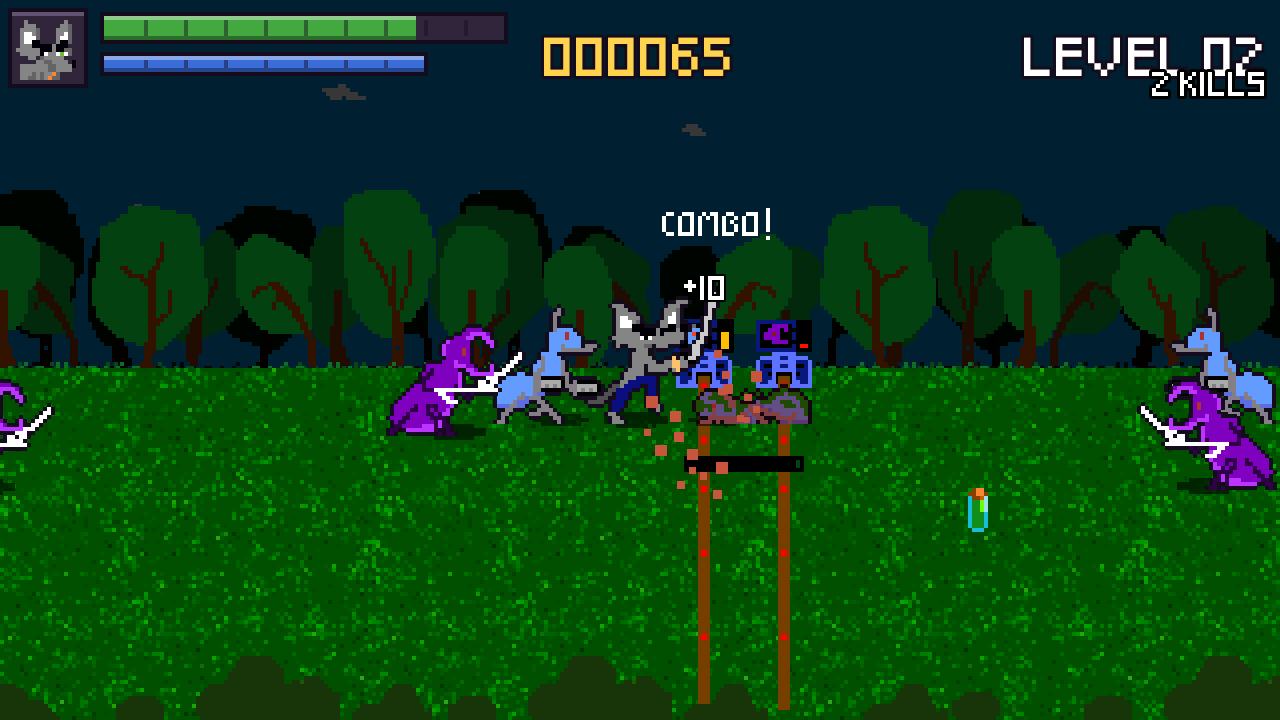
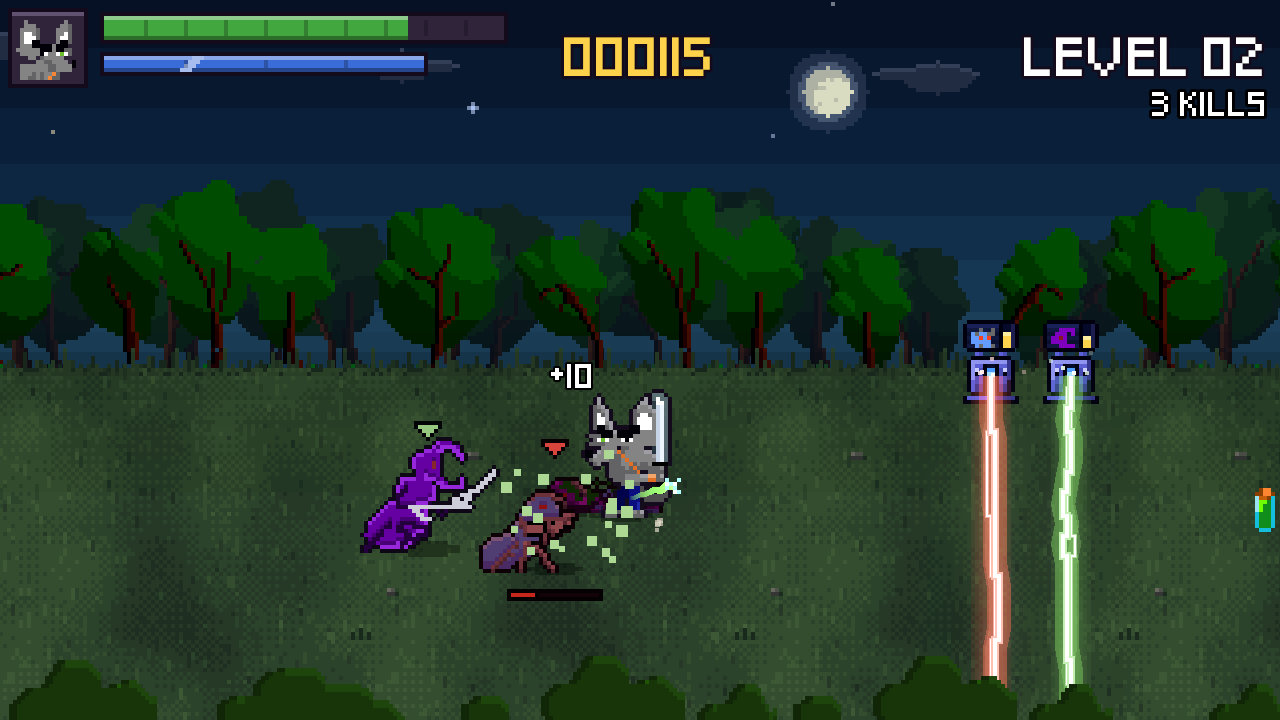
upd beat match to pass

diff --git a/docs/app_beatMatchToPass.html b/docs/app_beatMatchToPass.html
@@ -10,7 +10,7 @@
   <link rel="preconnect" href="https://fonts.googleapis.com">
   <link rel="preconnect" href="https://fonts.gstatic.com" crossorigin>
   <link href="https://fonts.googleapis.com/css2?family=Sora:wght@400;500;600;700&family=Inter:wght@400;500;600;700&family=Pixelify+Sans:wght@500;700&display=swap" rel="stylesheet">
-  <link rel="stylesheet" href="css/theme.css?v=20261107212909">
+  <link rel="stylesheet" href="css/theme.css?v=20261107235030">
 
   <!-- Google tag (gtag.js) -->
   <script async src="https://www.googletagmanager.com/gtag/js?id=G-ZVG5R211FM"></script>
@@ -118,7 +118,7 @@
         <div class="project-body">
             
 <figure class="project-media">
-<img src="/images/promo/games/beatMatchToPass/gameplay.gif?v=20261030" alt="Combo à l'épée, ennemis vaincus et tempête d'éclairs en action" />
+<img src="/images/promo/games/beatMatchToPass/gameplay.gif?v=20261107" alt="Combo à l'épée, ennemis vaincus et tempête d'éclairs en action" />
 </figure>
 <p>Le chemin de Gordon à travers la forêt est barré par des barrières électriques. Chacune affiche un ennemi : fourmi, scarabée ou araignée. Seule la victoire contre <strong>ce type d'ennemi</strong> la recharge, et une fois pleine, elle s'éteint et le passage s'ouvre.</p>
 <p>Pas question de taper au hasard : choisissez vos cibles, entretenez votre combo et gardez vos éclairs pour le bon moment.</p>
@@ -133,16 +133,16 @@
 </ul>
 <h3>Du lancement au combat</h3>
 <figure class="project-media">
-<img src="/images/promo/games/beatMatchToPass/launch.gif?v=20261030" alt="Logo de démarrage, écran titre animé et menu principal" loading="lazy" />
+<img src="/images/promo/games/beatMatchToPass/launch.gif?v=20261107" alt="Logo de démarrage, écran titre animé et menu principal" loading="lazy" />
 </figure>
 <h3>Screenshots</h3>
-<p><img src="/images/promo/games/beatMatchToPass/lightning.png?v=20261030" alt="Tempête d&#039;éclairs" />
-<img src="/images/screenshots/games/beatMatchToPass/Screenshot_01.png?v=20261030" alt="image" />
-<img src="/images/screenshots/games/beatMatchToPass/Screenshot_02.png?v=20261030" alt="image" />
-<img src="/images/screenshots/games/beatMatchToPass/Screenshot_03.png?v=20261030" alt="image" />
-<img src="/images/screenshots/games/beatMatchToPass/Screenshot_04.png?v=20261030" alt="image" />
-<img src="/images/screenshots/games/beatMatchToPass/Screenshot_05.png?v=20261030" alt="image" />
-<img src="/images/screenshots/games/beatMatchToPass/Screenshot_06.png?v=20261030" alt="image" /></p>        </div>
+<p><img src="/images/promo/games/beatMatchToPass/lightning.png?v=20261107" alt="Tempête d&#039;éclairs" />
+<img src="/images/screenshots/games/beatMatchToPass/Screenshot_01.png?v=20261107" alt="image" />
+<img src="/images/screenshots/games/beatMatchToPass/Screenshot_02.png?v=20261107" alt="image" />
+<img src="/images/screenshots/games/beatMatchToPass/Screenshot_03.png?v=20261107" alt="image" />
+<img src="/images/screenshots/games/beatMatchToPass/Screenshot_04.png?v=20261107" alt="image" />
+<img src="/images/screenshots/games/beatMatchToPass/Screenshot_05.png?v=20261107" alt="image" />
+<img src="/images/screenshots/games/beatMatchToPass/Screenshot_06.png?v=20261107" alt="image" /></p>        </div>
     </div>
 
     </div>

diff --git a/docs/games.html b/docs/games.html
@@ -10,7 +10,7 @@
   <link rel="preconnect" href="https://fonts.googleapis.com">
   <link rel="preconnect" href="https://fonts.gstatic.com" crossorigin>
   <link href="https://fonts.googleapis.com/css2?family=Sora:wght@400;500;600;700&family=Inter:wght@400;500;600;700&family=Pixelify+Sans:wght@500;700&display=swap" rel="stylesheet">
-  <link rel="stylesheet" href="css/theme.css?v=20261107212909">
+  <link rel="stylesheet" href="css/theme.css?v=20261107235030">
 
   <!-- Google tag (gtag.js) -->
   <script async src="https://www.googletagmanager.com/gtag/js?id=G-ZVG5R211FM"></script>
@@ -152,7 +152,7 @@
     
                     <a class="card card-link" href="app_beatMatchToPass.html">
                                 <div class="card-image card-image-thumbnail">
-                    <img src="images/thumbnails/games/beatMatchToPass.jpg?v=20261101" alt="Beat Match to Pass" loading="lazy">
+                    <img src="images/thumbnails/games/beatMatchToPass.jpg?v=20261107" alt="Beat Match to Pass" loading="lazy">
                                                     </div>
                 <div class="card-body">
                     <h3 class="card-title">Beat Match to Pass</h3>

diff --git a/docs/index.html b/docs/index.html
@@ -10,7 +10,7 @@
   <link rel="preconnect" href="https://fonts.googleapis.com">
   <link rel="preconnect" href="https://fonts.gstatic.com" crossorigin>
   <link href="https://fonts.googleapis.com/css2?family=Sora:wght@400;500;600;700&family=Inter:wght@400;500;600;700&family=Pixelify+Sans:wght@500;700&display=swap" rel="stylesheet">
-  <link rel="stylesheet" href="css/theme.css?v=20261107212909">
+  <link rel="stylesheet" href="css/theme.css?v=20261107235030">
 
   <!-- Google tag (gtag.js) -->
   <script async src="https://www.googletagmanager.com/gtag/js?id=G-ZVG5R211FM"></script>
@@ -209,7 +209,7 @@
     
                     <a class="card card-link" href="app_beatMatchToPass.html">
                                 <div class="card-image card-image-thumbnail">
-                    <img src="images/thumbnails/games/beatMatchToPass.jpg?v=20261101" alt="Beat Match to Pass" loading="lazy">
+                    <img src="images/thumbnails/games/beatMatchToPass.jpg?v=20261107" alt="Beat Match to Pass" loading="lazy">
                                                     </div>
                 <div class="card-body">
                     <h3 class="card-title">Beat Match to Pass</h3>

diff --git a/docs/about.html b/docs/about.html
@@ -10,7 +10,7 @@
   <link rel="preconnect" href="https://fonts.googleapis.com">
   <link rel="preconnect" href="https://fonts.gstatic.com" crossorigin>
   <link href="https://fonts.googleapis.com/css2?family=Sora:wght@400;500;600;700&family=Inter:wght@400;500;600;700&family=Pixelify+Sans:wght@500;700&display=swap" rel="stylesheet">
-  <link rel="stylesheet" href="css/theme.css?v=20261107212909">
+  <link rel="stylesheet" href="css/theme.css?v=20261107235030">
 
   <!-- Google tag (gtag.js) -->
   <script async src="https://www.googletagmanager.com/gtag/js?id=G-ZVG5R211FM"></script>

diff --git a/docs/app_dupotDevTools.html b/docs/app_dupotDevTools.html
@@ -10,7 +10,7 @@
   <link rel="preconnect" href="https://fonts.googleapis.com">
   <link rel="preconnect" href="https://fonts.gstatic.com" crossorigin>
   <link href="https://fonts.googleapis.com/css2?family=Sora:wght@400;500;600;700&family=Inter:wght@400;500;600;700&family=Pixelify+Sans:wght@500;700&display=swap" rel="stylesheet">
-  <link rel="stylesheet" href="css/theme.css?v=20261107212909">
+  <link rel="stylesheet" href="css/theme.css?v=20261107235030">
 
   <!-- Google tag (gtag.js) -->
   <script async src="https://www.googletagmanager.com/gtag/js?id=G-ZVG5R211FM"></script>

diff --git a/docs/app_dupotEasyFlatpak.html b/docs/app_dupotEasyFlatpak.html
@@ -10,7 +10,7 @@
   <link rel="preconnect" href="https://fonts.googleapis.com">
   <link rel="preconnect" href="https://fonts.gstatic.com" crossorigin>
   <link href="https://fonts.googleapis.com/css2?family=Sora:wght@400;500;600;700&family=Inter:wght@400;500;600;700&family=Pixelify+Sans:wght@500;700&display=swap" rel="stylesheet">
-  <link rel="stylesheet" href="css/theme.css?v=20261107212909">
+  <link rel="stylesheet" href="css/theme.css?v=20261107235030">
 
   <!-- Google tag (gtag.js) -->
   <script async src="https://www.googletagmanager.com/gtag/js?id=G-ZVG5R211FM"></script>

diff --git a/docs/app_dupotFileBrowser.html b/docs/app_dupotFileBrowser.html
@@ -10,7 +10,7 @@
   <link rel="preconnect" href="https://fonts.googleapis.com">
   <link rel="preconnect" href="https://fonts.gstatic.com" crossorigin>
   <link href="https://fonts.googleapis.com/css2?family=Sora:wght@400;500;600;700&family=Inter:wght@400;500;600;700&family=Pixelify+Sans:wght@500;700&display=swap" rel="stylesheet">
-  <link rel="stylesheet" href="css/theme.css?v=20261107212909">
+  <link rel="stylesheet" href="css/theme.css?v=20261107235030">
 
   <!-- Google tag (gtag.js) -->
   <script async src="https://www.googletagmanager.com/gtag/js?id=G-ZVG5R211FM"></script>

diff --git a/docs/app_dupotStaticGenerationFramework.html b/docs/app_dupotStaticGenerationFramework.html
@@ -10,7 +10,7 @@
   <link rel="preconnect" href="https://fonts.googleapis.com">
   <link rel="preconnect" href="https://fonts.gstatic.com" crossorigin>
   <link href="https://fonts.googleapis.com/css2?family=Sora:wght@400;500;600;700&family=Inter:wght@400;500;600;700&family=Pixelify+Sans:wght@500;700&display=swap" rel="stylesheet">
-  <link rel="stylesheet" href="css/theme.css?v=20261107212909">
+  <link rel="stylesheet" href="css/theme.css?v=20261107235030">
 
   <!-- Google tag (gtag.js) -->
   <script async src="https://www.googletagmanager.com/gtag/js?id=G-ZVG5R211FM"></script>

diff --git a/docs/app_dupotStaticManagementFramework.html b/docs/app_dupotStaticManagementFramework.html
@@ -10,7 +10,7 @@
   <link rel="preconnect" href="https://fonts.googleapis.com">
   <link rel="preconnect" href="https://fonts.gstatic.com" crossorigin>
   <link href="https://fonts.googleapis.com/css2?family=Sora:wght@400;500;600;700&family=Inter:wght@400;500;600;700&family=Pixelify+Sans:wght@500;700&display=swap" rel="stylesheet">
-  <link rel="stylesheet" href="css/theme.css?v=20261107212909">
+  <link rel="stylesheet" href="css/theme.css?v=20261107235030">
 
   <!-- Google tag (gtag.js) -->
   <script async src="https://www.googletagmanager.com/gtag/js?id=G-ZVG5R211FM"></script>

diff --git a/docs/app_glfosNixSamba.html b/docs/app_glfosNixSamba.html
@@ -10,7 +10,7 @@
   <link rel="preconnect" href="https://fonts.googleapis.com">
   <link rel="preconnect" href="https://fonts.gstatic.com" crossorigin>
   <link href="https://fonts.googleapis.com/css2?family=Sora:wght@400;500;600;700&family=Inter:wght@400;500;600;700&family=Pixelify+Sans:wght@500;700&display=swap" rel="stylesheet">
-  <link rel="stylesheet" href="css/theme.css?v=20261107212909">
+  <link rel="stylesheet" href="css/theme.css?v=20261107235030">
 
   <!-- Google tag (gtag.js) -->
   <script async src="https://www.googletagmanager.com/gtag/js?id=G-ZVG5R211FM"></script>

diff --git a/docs/app_glfosWelcomeScreen.html b/docs/app_glfosWelcomeScreen.html
@@ -10,7 +10,7 @@
   <link rel="preconnect" href="https://fonts.googleapis.com">
   <link rel="preconnect" href="https://fonts.gstatic.com" crossorigin>
   <link href="https://fonts.googleapis.com/css2?family=Sora:wght@400;500;600;700&family=Inter:wght@400;500;600;700&family=Pixelify+Sans:wght@500;700&display=swap" rel="stylesheet">
-  <link rel="stylesheet" href="css/theme.css?v=20261107212909">
+  <link rel="stylesheet" href="css/theme.css?v=20261107235030">
 
   <!-- Google tag (gtag.js) -->
   <script async src="https://www.googletagmanager.com/gtag/js?id=G-ZVG5R211FM"></script>

diff --git a/docs/app_kritaSpritesheetExporter.html b/docs/app_kritaSpritesheetExporter.html
@@ -10,7 +10,7 @@
   <link rel="preconnect" href="https://fonts.googleapis.com">
   <link rel="preconnect" href="https://fonts.gstatic.com" crossorigin>
   <link href="https://fonts.googleapis.com/css2?family=Sora:wght@400;500;600;700&family=Inter:wght@400;500;600;700&family=Pixelify+Sans:wght@500;700&display=swap" rel="stylesheet">
-  <link rel="stylesheet" href="css/theme.css?v=20261107212909">
+  <link rel="stylesheet" href="css/theme.css?v=20261107235030">
 
   <!-- Google tag (gtag.js) -->
   <script async src="https://www.googletagmanager.com/gtag/js?id=G-ZVG5R211FM"></script>
